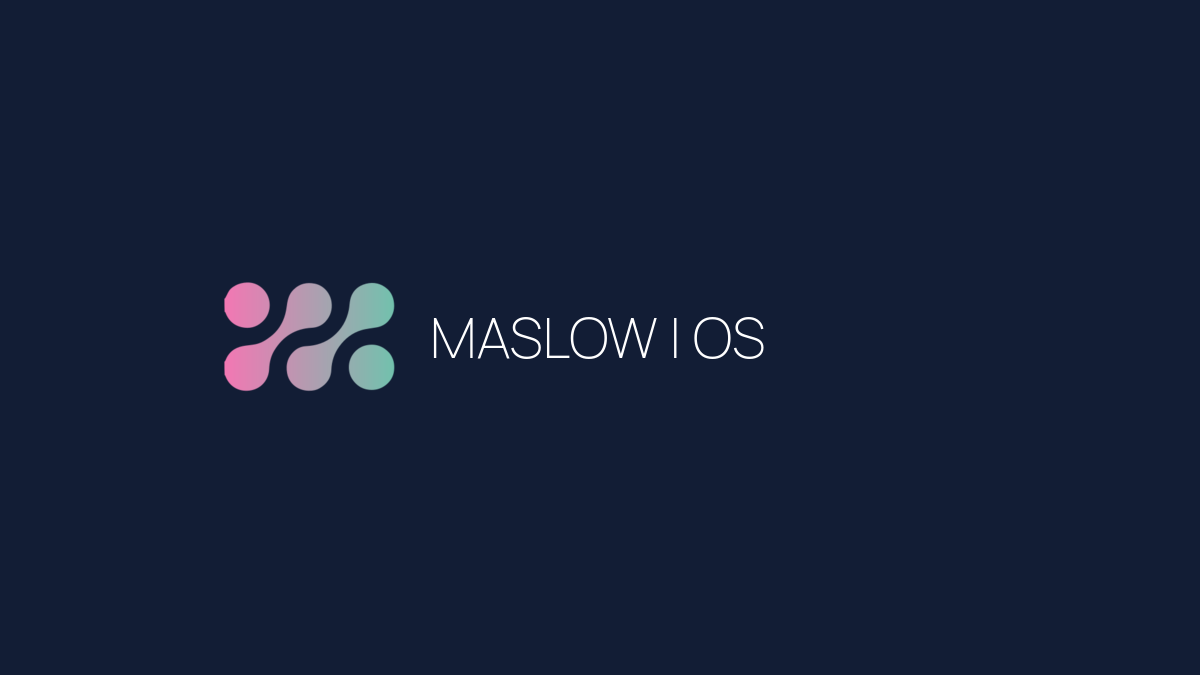
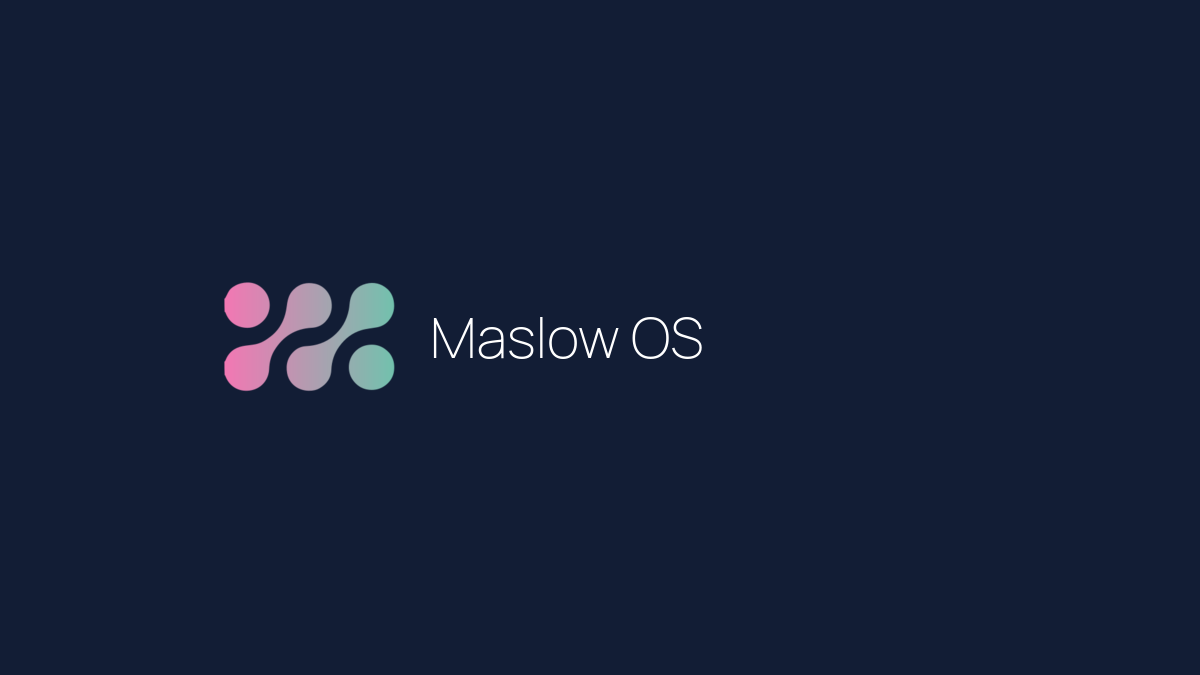
Establish Maslow OS product identity foundation

Changed region(s): [[0.4008, 0.4667, 0.6475, 0.5289]]

diff --git a/branding/README.md b/branding/README.md
@@ -6,4 +6,4 @@ The generator converts the official Gradient Bridge mark and a Manrope wordmark 
 
 The canonical colors and logo files are copied from the consolidated Maslow Brand System. Do not redraw the mark, substitute legacy fonts, or introduce raw palette values without updating `design-tokens.json` and the brand validation test.
 
-Run `branding/scripts/generate-assets` on an Omarchy/Arch development machine with ImageMagick installed to split and upscale the curated wallpaper source, regenerate previews, unlock images, and boot/login artwork. The same four wallpapers are installed in Maslow Dark and Maslow Light. Generated application color files continue to come from each theme's `colors.toml` through the normal Omarchy theme pipeline.
+Run `branding/scripts/generate-assets` on an Omarchy/Arch development machine with ImageMagick installed to regenerate the approved Maslow OS lockup, console artwork, and boot/login assets. Pass `--wallpapers` only when intentionally regenerating the deferred wallpaper set. Generated application color files continue to come from each theme's `colors.toml` through the normal Omarchy theme pipeline.

diff --git a/default/fonts/omarchy/README.md b/default/fonts/omarchy/README.md
@@ -13,6 +13,7 @@ The private-use glyphs in `omarchy.ttf` are:
 - `U+E908` — T3 Code, traced from the app icon in <https://aur.archlinux.org/cgit/aur.git/plain/t3code-icon.png?h=t3code-bin>, since upstream publishes no monochrome SVG
 - `U+E909` — Ori, from <https://openrouter.ai/brand/v2/openrouter-glyph-dark.svg>, OpenRouter's own mark: Ori ships no separate logo and its product page uses this one
 - `U+E90A` — Hermes, Font Awesome's staff-snake (CC BY 4.0) from <https://fontawesome.com/icons/staff-snake>, the mark Hermes serves as its favicon: their app icon is a portrait that reads as a smudge at menu size
+- `U+E90B` — Maslow OS, single-path derivative of the approved Gradient Bridge mark in `branding/logos/maslow-mark-dark.svg`
 
 The agent marks are monochrome so the menu can render them using the active
 theme's foreground and selection colors.
